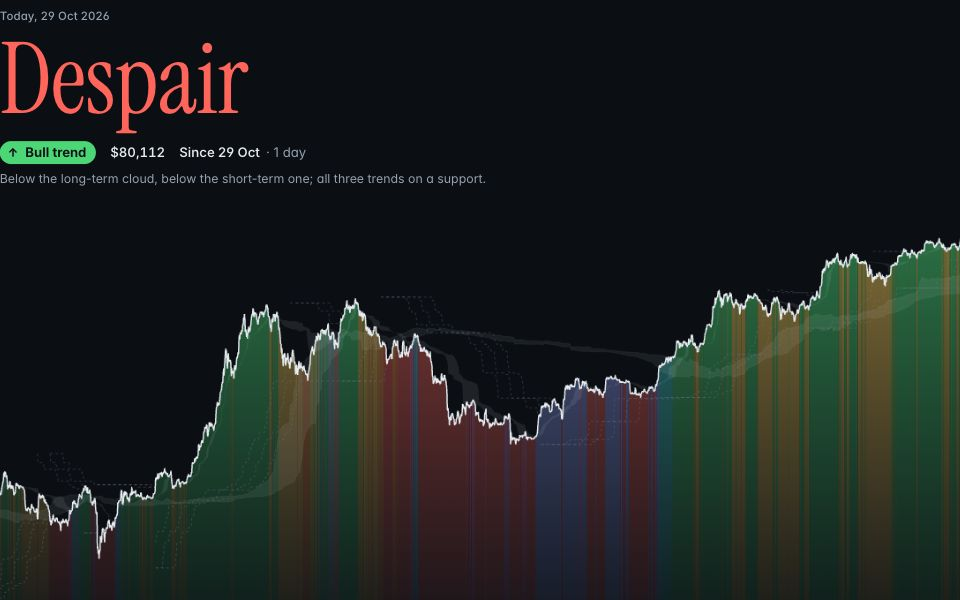
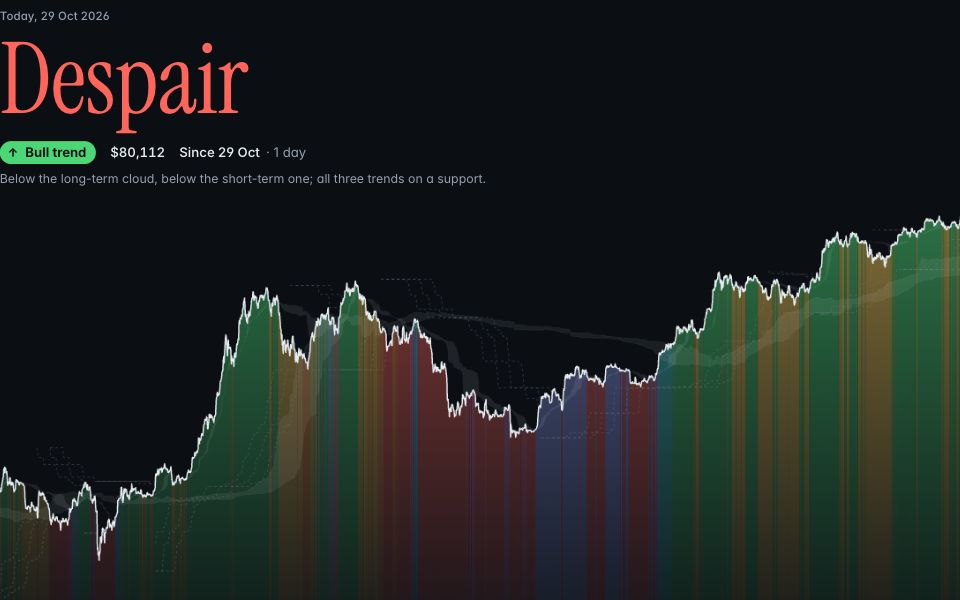
showcases: Compass, the chart closer under its words, its lane flush under it, a year's path, a still legend.
About 30px between the words over the chart and its highest price, half as much as before (the hero's foot 8px, TOP_GAP 8px, the price range's headroom above 3%, below kept at 6%). The trend's lane right under the plot, its foot, no gap. The compass's path a year to the day shown (365 days), not half of one. Under the strip, the day in a slot of its own, as wide as its longest date, and the legend beside it fixed ("The year before as a path, its trend lit."): nothing moves as the day changes. "Since Feb 2011" gone from its part's header (the count under the lists says the dates).

Codex's reviews: the spacing, 1 finding kept on purpose (a trend line above the price range may be clipped: the scale is the price's and the clouds', a far resistance would flatten them); the lane, header and path, no findings; the legend's slot and the flush lane checked by hand. Share card and cover made again.

Changed region(s): [[0.0, 0.48, 0.5625, 0.87], [0.5625, 0.36, 1.0, 0.69], [0.4688, 0.51, 0.5, 0.54]]

diff --git a/showcases/compass/index.html b/showcases/compass/index.html
@@ -192,7 +192,7 @@
          so nothing under it moves as a day's words change. */
       .hero {
         flex: none;
-        padding: 8px 0 14px;
+        padding: 8px 0 8px;
 
         .day {
           display: flex;
@@ -591,11 +591,6 @@
           color: var(--ink);
           font: 400 32px/1.1 var(--serif);
         }
-
-        p {
-          color: var(--soft);
-          font-size: 13px;
-        }
       }
 
       .atlas {
@@ -783,9 +778,18 @@
         color: var(--soft);
         font-size: 13px;
 
+        /* (The day in a slot of its own, as wide as its longest date: the words after it never move as it changes.) */
         b {
+          flex: none;
+          width: 7.6em;
           color: var(--ink);
           font-weight: 600;
+          font-variant-numeric: tabular-nums;
+        }
+
+        .legend {
+          flex: 1;
+          min-width: 0;
         }
       }
 
@@ -1029,7 +1033,7 @@
 
     <main class="shell">
       <section class="part" id="atlas" aria-labelledby="atlas-title">
-        <header><h2 id="atlas-title">Where it's been</h2><p id="atlas-since"></p></header>
+        <header><h2 id="atlas-title">Where it's been</h2></header>
         <div class="atlas">
           <div>
             <div class="compass">
@@ -1040,7 +1044,7 @@
               <input type="range" id="slider" min="0" max="0" value="0" disabled aria-label="The day shown, across the chart's span: the same as the chart's" />
             </div>
             <div class="compass-foot">
-              <span><b id="scrub-day">Today</b>: the half year before it as a path, its trend lit.</span>
+              <b id="scrub-day">Today</b><span class="legend">The year before as a path, its trend lit.</span>
               <button type="button" class="replay" data-replay disabled><svg viewBox="0 0 12 12" aria-hidden="true"><path d="M2 1v10l9-5z" /></svg><span>Play</span></button>
             </div>
           </div>
@@ -1364,16 +1368,18 @@
       /** ROOM as a share of the plot's width: of a view's days, how many are room past the latest. */
       const roomShare = () => Math.min(0.5, ROOM / Math.max(1, plotRight()));
       /** The room between the words over the chart and its highest price. */
-      const TOP_GAP = 16;
+      const TOP_GAP = 8;
       /** The canvas's size, the whole first screen; the prices' top (its pane runs to the screen's, the prices kept
        * under where it stands: TOP_GAP under it) and the foot's top, measured. */
       let width = 0, height = 0, plotTop = 0, footTop = 0;
       /** The plot's price range (logs), eased as the span's days change. */
       let range = { lo: 0, hi: 1 };
 
-      const plotRight = () => width, plotBottom = () => footTop - YEARS - LANE - 8;
+      /** The lane's gap under the plot: none, its foot, not a stripe of its own. */
+      const LANE_GAP = 0;
+      const plotRight = () => width, plotBottom = () => footTop - YEARS - LANE - LANE_GAP;
       /** The dates' baseline, under the lane. */
-      const datesY = () => plotBottom() + 8 + LANE + 20;
+      const datesY = () => plotBottom() + LANE_GAP + LANE + 20;
       const xOf = (/** @type {number} */ day) => ((day - view.a + 0.5) / (view.b - view.a + 1)) * plotRight();
       const yOf = (/** @type {number} */ price) => plotTop + (1 - (Math.log(price) - range.lo) / (range.hi - range.lo)) * (plotBottom() - plotTop);
       const dayAt = (/** @type {number} */ px) => {
@@ -1390,8 +1396,9 @@
             if (p > 0) (lo = Math.min(lo, p)), (hi = Math.max(hi, p));
           }
         }
-        const pad = (Math.log(hi) - Math.log(lo)) * 0.06;
-        return { lo: Math.log(lo) - pad, hi: Math.log(hi) + pad };
+        // (Less above than below: the words over the chart are room enough.)
+        const span = Math.log(hi) - Math.log(lo);
+        return { lo: Math.log(lo) - span * 0.06, hi: Math.log(hi) + span * 0.03 };
       }
 
       function draw() {
@@ -1479,7 +1486,7 @@
         ctx.restore();
 
         // The trend's lane, thin and soft, each run in its colour, named in the price's column.
-        const lane = bottom + 8;
+        const lane = bottom + LANE_GAP;
         for (let i = a; i <= b; ) {
           const t = d.trend[i];
           let j = i;
@@ -1517,7 +1524,7 @@
           if (at < view.a - 0.5 || at > view.b + 0.5) return;
           const x = Math.round(xOf(at)) + 0.5, y = yOf(d.close[at]);
           ctx.fillStyle = withAlpha(paint.ink, kept ? 0.6 : 0.28);
-          if (pinned !== null || hovered !== null) ctx.fillRect(x - (kept ? 0.75 : 0.5), 0, kept ? 1.5 : 1, bottom + 8 + LANE);
+          if (pinned !== null || hovered !== null) ctx.fillRect(x - (kept ? 0.75 : 0.5), 0, kept ? 1.5 : 1, bottom + LANE_GAP + LANE);
           ctx.beginPath();
           ctx.arc(x, y, 4.5, 0, Math.PI * 2);
           ctx.fillStyle = paint.states[d.state[at]];
@@ -1965,8 +1972,8 @@
       new ResizeObserver(placeIcons).observe(compass);
       document.fonts.ready.then(placeIcons);
 
-      /** The half year to the day shown, as a path fading into the past; the day a dot. */
-      const TRAIL = 182;
+      /** The year to the day shown, as a path fading into the past; the day a dot. */
+      const TRAIL = 365;
       /** The day the compass was last drawn for (-1: drawn again whatever the day). */
       let compassDay = -1;
       function drawCompass() {
@@ -1989,7 +1996,7 @@
           const { i, t } = /** @type {SVGElement} */ (cell).dataset;
           cell.classList.toggle("on", i !== undefined ? Number(i) === d.state[day] : Number(t) === d.trend[day]);
         }
-        compass.setAttribute("aria-label", `The nine states as a compass, the three trends under it: ${dated(day)}, ${STATES[d.state[day]].name}, ${TRENDS[d.trend[day]].name.toLowerCase()} trend, its path over the half year before.`);
+        compass.setAttribute("aria-label", `The nine states as a compass, the three trends under it: ${dated(day)}, ${STATES[d.state[day]].name}, ${TRENDS[d.trend[day]].name.toLowerCase()} trend, its path over the year before.`);
       }
 
       // ── The strip and its slider, under the compass: every day from the first to today, a playhead on the day shown ──
@@ -2123,8 +2130,6 @@
         $("states").innerHTML = STATES.map((s, i) => ({ s, i })).sort((p, q) => (states ? states[q.i].share - states[p.i].share : 0)).map(({ s, i }) => row(i, s.name, states?.[i] ?? null, top, `var(--s-${s.id})`)).join("");
         const topTrend = Math.max(...(trends ?? []).map((t) => t.share));
         $("trends").innerHTML = TRENDS.map((t, i) => row(i, `${t.name}${trendIcon(i)}`, trends?.[i] ?? null, topTrend, `var(--s-${t.color})`)).join("");
-        if (!d) return;
-        $("atlas-since").textContent = `Since ${MONTHS[dateOf(d.first).getUTCMonth()]} ${dateOf(d.first).getUTCFullYear()}`;
       }
 
       /** Every share, bar and run count as of the day shown: the days from the first to it. (Rows keep their order, all
